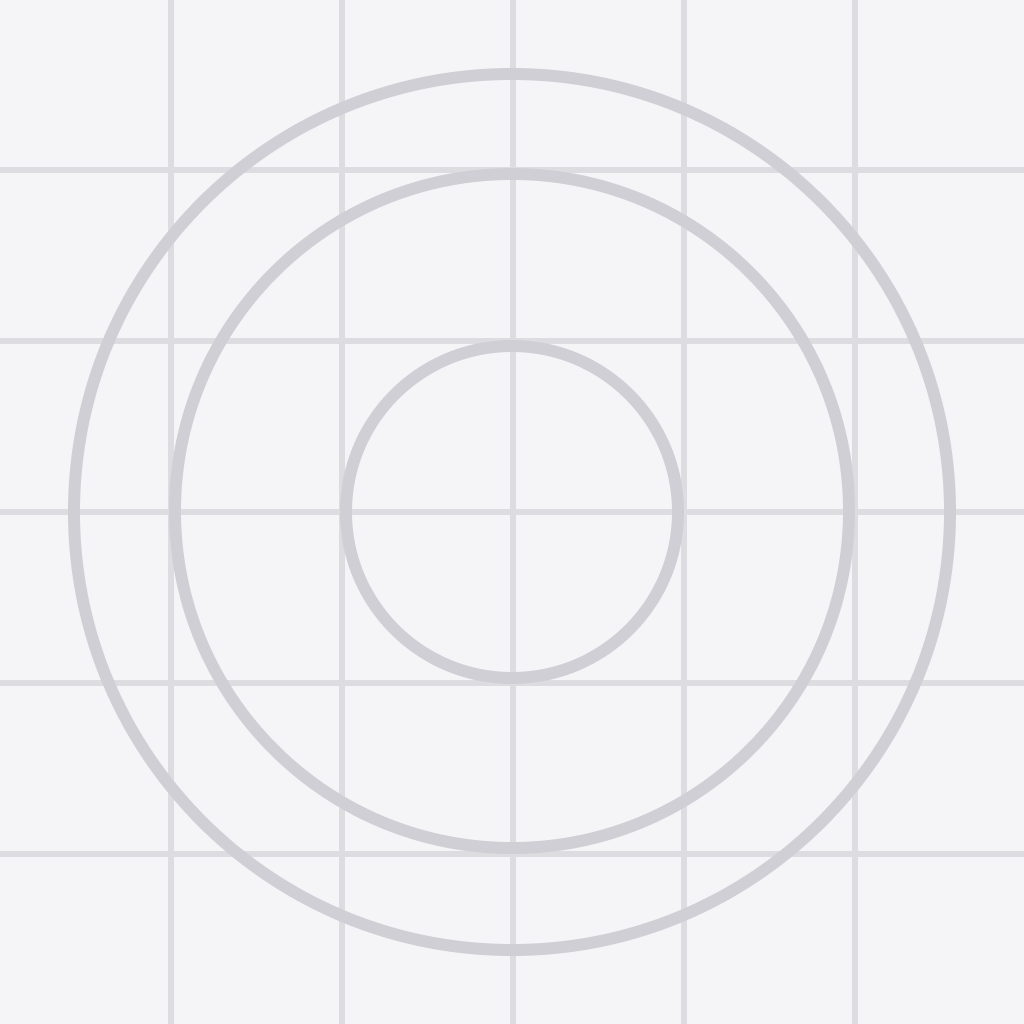
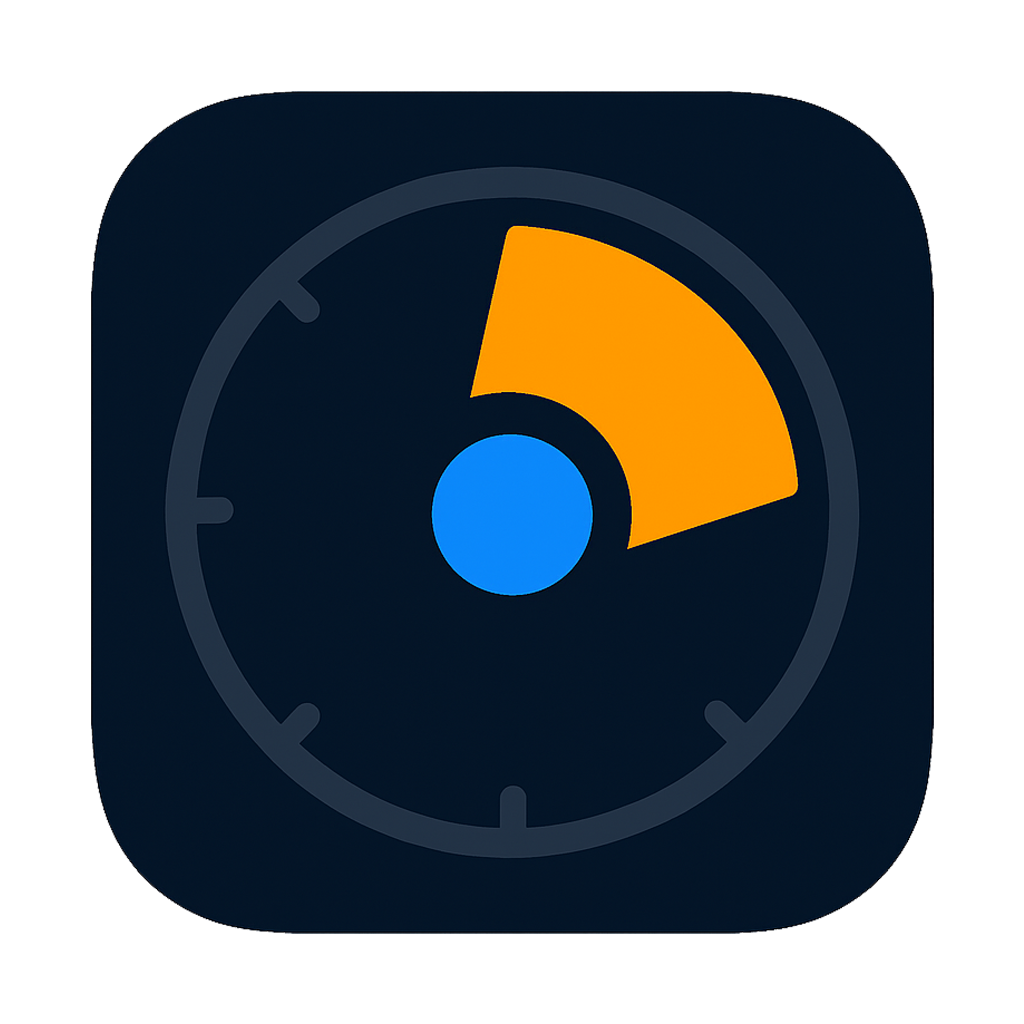
update first person logic

diff --git a/mobile/app/game.tsx b/mobile/app/game.tsx
@@ -1,6 +1,6 @@
-import React, { useCallback, useEffect, useMemo, useState } from 'react';
-import { Modal, Text, TouchableOpacity } from 'react-native';
-import MapView, { UrlTile } from 'react-native-maps';
+import React, { useCallback, useEffect, useMemo, useRef, useState } from 'react';
+import { Modal, Text, TouchableOpacity, View } from 'react-native';
+import MapView, { Camera, UrlTile } from 'react-native-maps';
 import { SafeAreaView, useSafeAreaInsets } from 'react-native-safe-area-context';
 import AnswerResult from '../components/AnswerResult';
 import FloatingActionButton from '../components/FloatingActionButton';
@@ -11,6 +11,7 @@ import ViewCone from '../components/ViewCone';
 import { useGameSession } from '../hooks/useGameSession';
 import { useLocation } from '../hooks/useLocation';
 import { useUser } from '../hooks/useUser';
+import { storageService } from '../services/storageService';
 import { mapStyles } from '../styles/mapStyles';
 import { LandmarkDTO } from '../types';
 import { calculateDistance } from '../utils/calculateDistance';
@@ -21,6 +22,7 @@ const VIEW_CONE_SPAN = GAME_CONFIG.VIEW_ANGLE;
 const VIEW_CONE_RADIUS = GAME_CONFIG.VIEW_RADIUS;
 const MAX_DISPLAY_LANDMARKS_COUNT = 10;
 const MAX_DISPLAY_LANDMARKS_DISTANCE = 500;
+const FIRST_PERSON_RECENTER_DISTANCE_METERS = 5;
 const DEFAULT_LANGUATE = 'english';
 const DEFAULT_STYLE = 'medieval';
 
@@ -33,7 +35,24 @@ export default function GamePage() {
   const gameSession = useGameSession();
   const [hasInitialized, setHasInitialized] = useState(false);
   const [showAnswerResult, setShowAnswerResult] = useState(false);
-  const [showSettings, setShowSettings] = useState(false); 
+  const [showSettings, setShowSettings] = useState(false);
+
+  // fp
+  const [isFirstPersonMode, setIsFirstPersonMode] = useState(false);
+  const [firstPersonZoom, setFirstPersonZoom] = useState(18);
+  const [isUserZooming, setIsUserZooming] = useState(false);
+  const [mapHeading, setMapHeading] = useState(0);
+  const mapRef = useRef<MapView>(null);
+  const cameraRef = useRef<Camera | null>(null);
+  const lastCenteredLocationRef = useRef<{ latitude: number; longitude: number } | null>(null);
+
+  // =============== Init First Personal Mode ===============
+  useEffect(() => {
+    (async () => {
+      const zoom = await storageService.getFirstPersonZoom();
+      setFirstPersonZoom(zoom);
+    })();
+  }, []);
 
   // =============== GAME INIT ===============
   // 1. GameSession init
@@ -69,14 +88,13 @@ export default function GamePage() {
       spanDeg: VIEW_CONE_SPAN,
       coneRadiusMeters: VIEW_CONE_RADIUS,
     });
-    
+
   }, [location, heading, hasInitialized, isLoading, isLoggedIn, user.userId, user.role]);
 
   // 2. Tracking Player Movement
-
   useEffect(() => {
     if (!location || !heading || !gameSession.userId) return;
-    
+
     gameSession.updatePosition({
       latitude: location.latitude,
       longitude: location.longitude,
@@ -85,6 +103,39 @@ export default function GamePage() {
       coneRadiusMeters: VIEW_CONE_RADIUS,
     });
   }, [location, heading, gameSession.userId, gameSession.role]);
+
+  useEffect(() => {
+    if (!isFirstPersonMode || !location || !heading || !mapRef.current) return;
+
+    if (isUserZooming) return;
+
+    setMapHeading(heading.heading);
+
+    const shouldRecenter =
+      !lastCenteredLocationRef.current ||
+      calculateDistance(lastCenteredLocationRef.current, location) >=
+        FIRST_PERSON_RECENTER_DISTANCE_METERS;
+
+    const cameraUpdate: Partial<Camera> = {
+      heading: heading.heading,
+      pitch: 0,
+    };
+
+    if (shouldRecenter) {
+      cameraUpdate.center = {
+        latitude: location.latitude,
+        longitude: location.longitude,
+      };
+      lastCenteredLocationRef.current = {
+        latitude: location.latitude,
+        longitude: location.longitude,
+      };
+      mapRef.current.animateCamera(cameraUpdate);
+      return;
+    }
+
+    mapRef.current.setCamera(cameraUpdate as Camera);
+  }, [isFirstPersonMode, location, heading, isUserZooming]);
 
   // 3. Landmark Display
   const displayLandmarks = useMemo(() => {
@@ -114,9 +165,115 @@ export default function GamePage() {
   }, [location, gameSession.roundLandmarks, gameSession.role]);
 
 
-  // =============== Settings =============== 
+  // =============== Settings ===============
 
   const shouldShowSettingsButton = isLoggedIn && gameSession.status !== 'inRound';
+
+  // =============== FIRST PERSON ===============
+  const handleRegionChange = useCallback(
+    (_region: any, details?: { isGesture?: boolean }) => {
+      if (!isFirstPersonMode) return;
+      if (details?.isGesture) {
+        setIsUserZooming(true);
+      }
+    },
+    [isFirstPersonMode]
+  );
+
+  const handleRegionChangeComplete = useCallback(async (region: any) => {
+    if (!isFirstPersonMode) return;
+
+    setIsUserZooming(false);
+
+    const zoomFromLongitudeDelta = (longitudeDelta: number) => {
+      if (!longitudeDelta || longitudeDelta <= 0) return null;
+      return Math.round(Math.log2(360 / longitudeDelta));
+    };
+
+    const nextZoom = zoomFromLongitudeDelta(region.longitudeDelta);
+    if (nextZoom !== null) {
+      setFirstPersonZoom(nextZoom);
+      await storageService.setFirstPersonZoom(nextZoom);
+    }
+  }, [isFirstPersonMode]);
+
+  const handlePanDrag = useCallback(() => {
+    if (!isFirstPersonMode || !location || !heading || !mapRef.current) return;
+    if (isUserZooming) return;
+
+    mapRef.current.animateCamera({
+      center: {
+        latitude: location.latitude,
+        longitude: location.longitude,
+      },
+      heading: heading.heading,
+      pitch: 0,
+      altitude: 0,
+      zoom: firstPersonZoom,
+    });
+  }, [isFirstPersonMode, location, heading, firstPersonZoom]);
+
+  // 切换第一人称模式
+  const toggleFirstPersonMode = useCallback(async () => {
+    const newMode = !isFirstPersonMode;
+    setIsFirstPersonMode(newMode);
+    await storageService.setFirstPersonEnabled(newMode);
+
+    if (!newMode && mapRef.current) {
+      // 退出第一人称时，重置地图跟随
+      mapRef.current.animateToRegion({
+        latitude: location?.latitude ?? 52.145765,
+        longitude: location?.longitude ?? -8.641198,
+        latitudeDelta: 0.01,
+        longitudeDelta: 0.01,
+      }, 350);
+    } else if (newMode && mapRef.current && location && heading) {
+      lastCenteredLocationRef.current = {
+        latitude: location.latitude,
+        longitude: location.longitude,
+      };
+      mapRef.current.animateCamera({
+        center: {
+          latitude: location.latitude,
+          longitude: location.longitude,
+        },
+        heading: heading.heading,
+        pitch: 0,
+        altitude: 0,
+        zoom: firstPersonZoom,
+      });
+    }
+  }, [isFirstPersonMode, location, heading, firstPersonZoom]);
+
+  const centerToCurrentLocation = useCallback(() => {
+    if (!location || !mapRef.current) return;
+
+    if (isFirstPersonMode && heading) {
+      // 第一人称模式下，使用 animateCamera
+      lastCenteredLocationRef.current = {
+        latitude: location.latitude,
+        longitude: location.longitude,
+      };
+      mapRef.current.animateCamera({
+        center: {
+          latitude: location.latitude,
+          longitude: location.longitude,
+        },
+        heading: heading.heading,
+        pitch: 0,
+        altitude: 0,
+        zoom: firstPersonZoom,
+      });
+    } else {
+      // 普通模式下，使用 animateToRegion
+      mapRef.current.animateToRegion({
+        latitude: location.latitude,
+        longitude: location.longitude,
+        latitudeDelta: 0.01,
+        longitudeDelta: 0.01,
+      });
+    }
+  }, [location, heading, isFirstPersonMode, firstPersonZoom]);
 
   // =============== GAME LOGIC ===============
 
@@ -125,7 +282,7 @@ export default function GamePage() {
       console.warn('[Game.tsx] Cannot start game: missing location, heading, or userId');
       return;
     }
-    
+
     try {
       if (gameSession.status === 'finished') {
         console.log('[Mobile][Game.tsx] Game finished, re-initializing...');
@@ -206,6 +363,7 @@ export default function GamePage() {
   return (
     <SafeAreaView style={mapStyles.container} edges={['top']}>
       <MapView
+        ref={mapRef}
         style={mapStyles.map}
         mapType="none"
         initialRegion={{
@@ -215,7 +373,12 @@ export default function GamePage() {
           longitudeDelta: 0.01,
         }}
         showsUserLocation={true}
-        followsUserLocation={true}
+        followsUserLocation={false}
+        rotateEnabled={!isFirstPersonMode}
+        zoomEnabled={true}
+        onRegionChange={handleRegionChange}
+        onRegionChangeComplete={handleRegionChangeComplete}
+        onPanDrag={handlePanDrag}
       >
         <UrlTile urlTemplate="https://{s}.tile.openstreetmap.org/{z}/{x}/{y}.png" maximumZ={19} />
 
@@ -223,7 +386,7 @@ export default function GamePage() {
         {location && heading && (
           <ViewCone
             center={location}
-            headingDeg={heading.heading}
+            headingDeg={isFirstPersonMode ? mapHeading : heading.heading}
             spanDeg={VIEW_CONE_SPAN}
             radiusMeters={VIEW_CONE_RADIUS}
             fillColor="rgba(0, 122, 255, 0.25)" // 随意调整
@@ -252,6 +415,32 @@ export default function GamePage() {
         </TouchableOpacity>
       )}
 
+      {/* ========== 右侧地图控制按钮 ========== */}
+      <View style={[
+        mapStyles.mapControlButtons,
+        {
+          top: insets.top + (shouldShowSettingsButton ? 60 : 10),
+        },
+      ]}>
+        {/* 定位到当前位置按钮 */}
+        <TouchableOpacity
+          style={mapStyles.mapControlButton}
+          onPress={centerToCurrentLocation}
+        >
+          <Text style={mapStyles.mapControlButtonText}>📍</Text>
+        </TouchableOpacity>
+
+        {/* 第一人称模式切换按钮 */}
+        <TouchableOpacity
+          style={mapStyles.mapControlButton}
+          onPress={toggleFirstPersonMode}
+        >
+          <Text style={mapStyles.mapControlButtonText}>
+            {isFirstPersonMode ? '👁️' : '🗺️'}
+          </Text>
+        </TouchableOpacity>
+      </View>
+
       <Modal
         visible={showSettings}
         animationType="slide"
@@ -260,7 +449,7 @@ export default function GamePage() {
           refreshUser();
         }}
       >
-        <SettingsPage 
+        <SettingsPage
           onLoginSuccess={() => {
             setShowSettings(false);
             refreshUser();

diff --git a/mobile/styles/mapStyles.ts b/mobile/styles/mapStyles.ts
@@ -141,4 +141,30 @@ export const mapStyles = StyleSheet.create({
     fontSize: fontSize.sm,
     fontWeight: '600',
   },
+
+  // fp button
+  mapControlButtons: {
+    position: 'absolute',
+    right: 16,
+    alignItems: 'center',
+    zIndex: 1001,
+  },
+  mapControlButton: {
+    width: 44,
+    height: 44,
+    borderRadius: 22,
+    backgroundColor: 'rgba(255, 255, 255, 0.95)',
+    justifyContent: 'center',
+    alignItems: 'center',
+    marginBottom: 12,
+    shadowColor: '#000',
+    shadowOffset: { width: 0, height: 2 },
+    shadowOpacity: 0.25,
+    shadowRadius: 4,
+    elevation: 5,
+  },
+  // 按钮图标文字
+  mapControlButtonText: {
+    fontSize: 20,
+  },
 });

diff --git a/mobile/services/storageService.ts b/mobile/services/storageService.ts
@@ -4,6 +4,8 @@ const STORAGE_KEYS = {
   USER_ID: '@scavengerhunt:userId',
   USERNAME: '@scavengerhunt:username',
   ROLE: '@scavengerhunt:role',
+  FIRST_PERSON_ZOOM: '@scavengerhunt:firstPersonZoom',
+  FIRST_PERSON_ENABLED: '@scavengerhunt:firstPersonEnabled'
 } as const;
 
 class StorageService {
@@ -29,6 +31,24 @@ class StorageService {
 
   async getRole(): Promise<string | null> {
     return await AsyncStorage.getItem(STORAGE_KEYS.ROLE);
+  }
+
+  async setFirstPersonZoom(zoom: number): Promise<void> {
+    await AsyncStorage.setItem(STORAGE_KEYS.FIRST_PERSON_ZOOM, zoom.toString());
+  }
+
+  async getFirstPersonZoom(): Promise<number> {
+    const zoom = await AsyncStorage.getItem(STORAGE_KEYS.FIRST_PERSON_ZOOM);
+    return zoom ? parseFloat(zoom) : 18;
+  }
+
+  async setFirstPersonEnabled(enabled: boolean): Promise<void> {
+    await AsyncStorage.setItem(STORAGE_KEYS.FIRST_PERSON_ENABLED, enabled.toString());
+  }
+
+  async getFirstPersonEnabled(): Promise<boolean> {
+    const enabled = await AsyncStorage.getItem(STORAGE_KEYS.FIRST_PERSON_ENABLED);
+    return enabled === 'true';
   }
 
   async clearUserData(): Promise<void> {